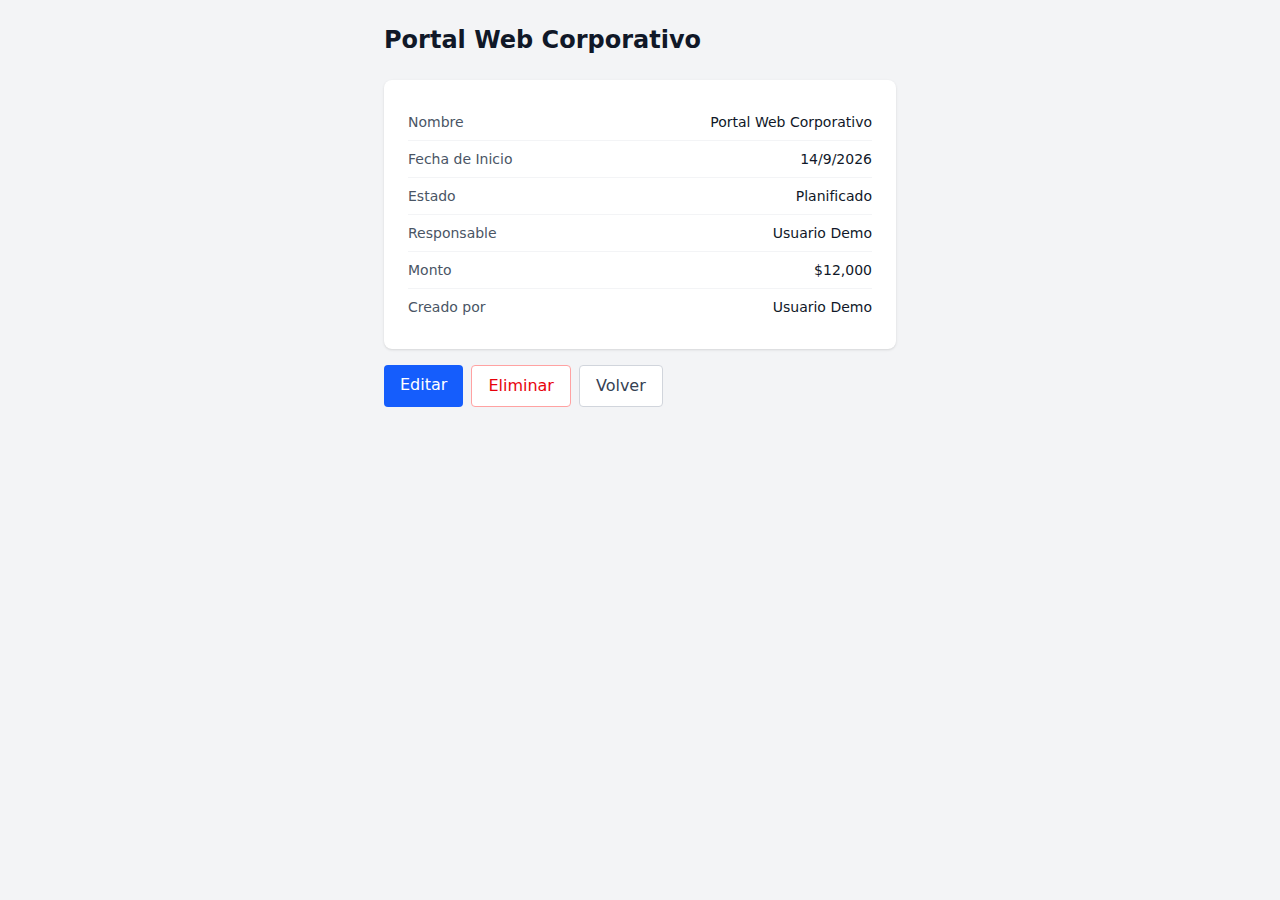
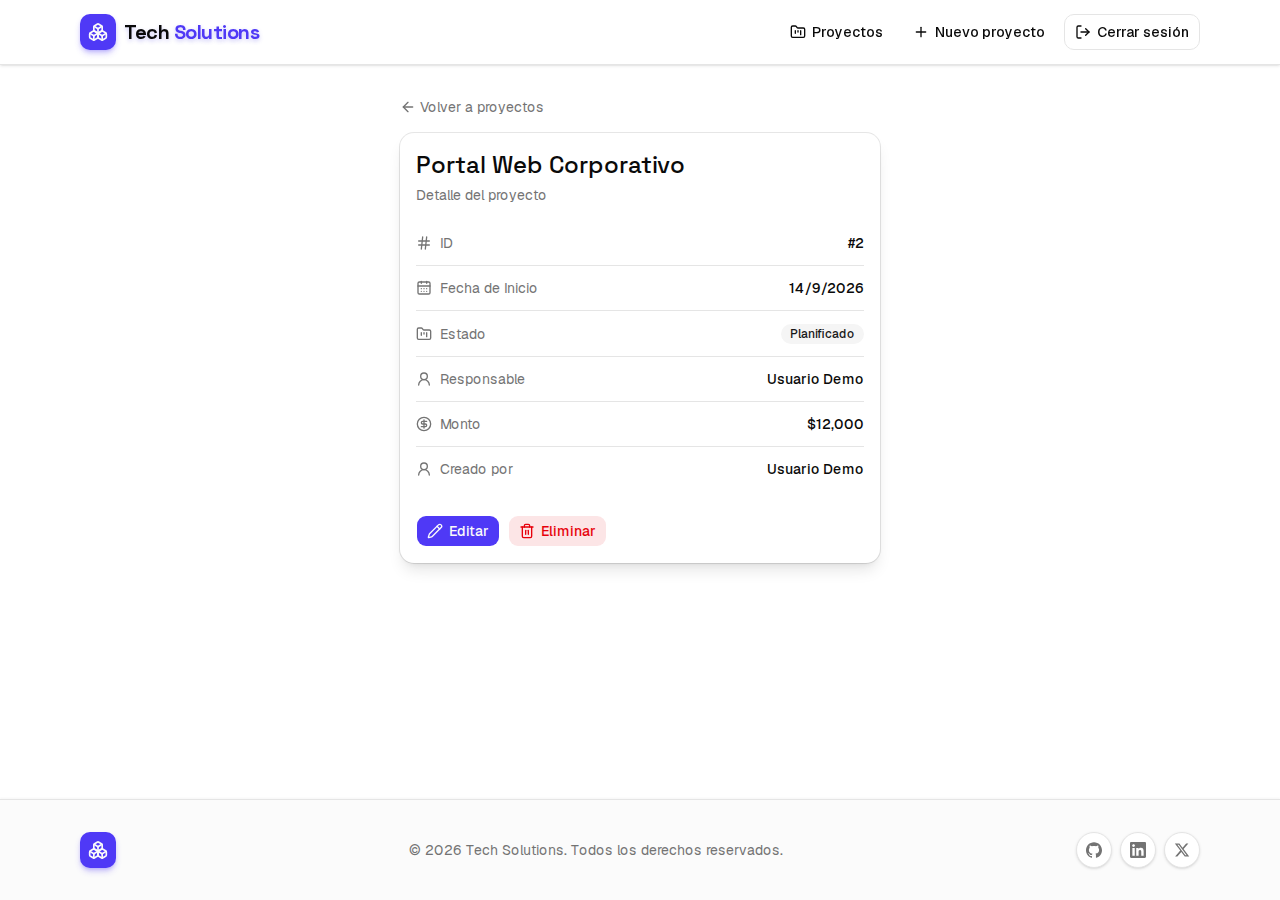
docs: actualizar capturas de pantalla
Rediseño shadcn/ui y caso 403 (intento de borrar proyecto ajeno).

diff --git a/README.md b/README.md
@@ -137,3 +137,13 @@ Aplicación en ejecución (`http://localhost:3000`), probando la autenticación 
 **Eliminar** — `DELETE /api/proyectos/[id]`: confirmación antes de borrar.
 
 ![Eliminar proyecto](docs/screenshots/proyecto-eliminar.png)
+
+### Autorización — intento de borrar un proyecto ajeno (403)
+
+Un usuario solo puede eliminar sus propios proyectos. Aquí el usuario "Bruno" intenta eliminar el proyecto creado por "Ana":
+
+![Intento de eliminar proyecto ajeno](docs/screenshots/permiso-intento.png)
+
+El servidor rechaza la petición con `403 Forbidden`:
+
+![Error 403 al eliminar proyecto ajeno](docs/screenshots/permiso-error.png)
